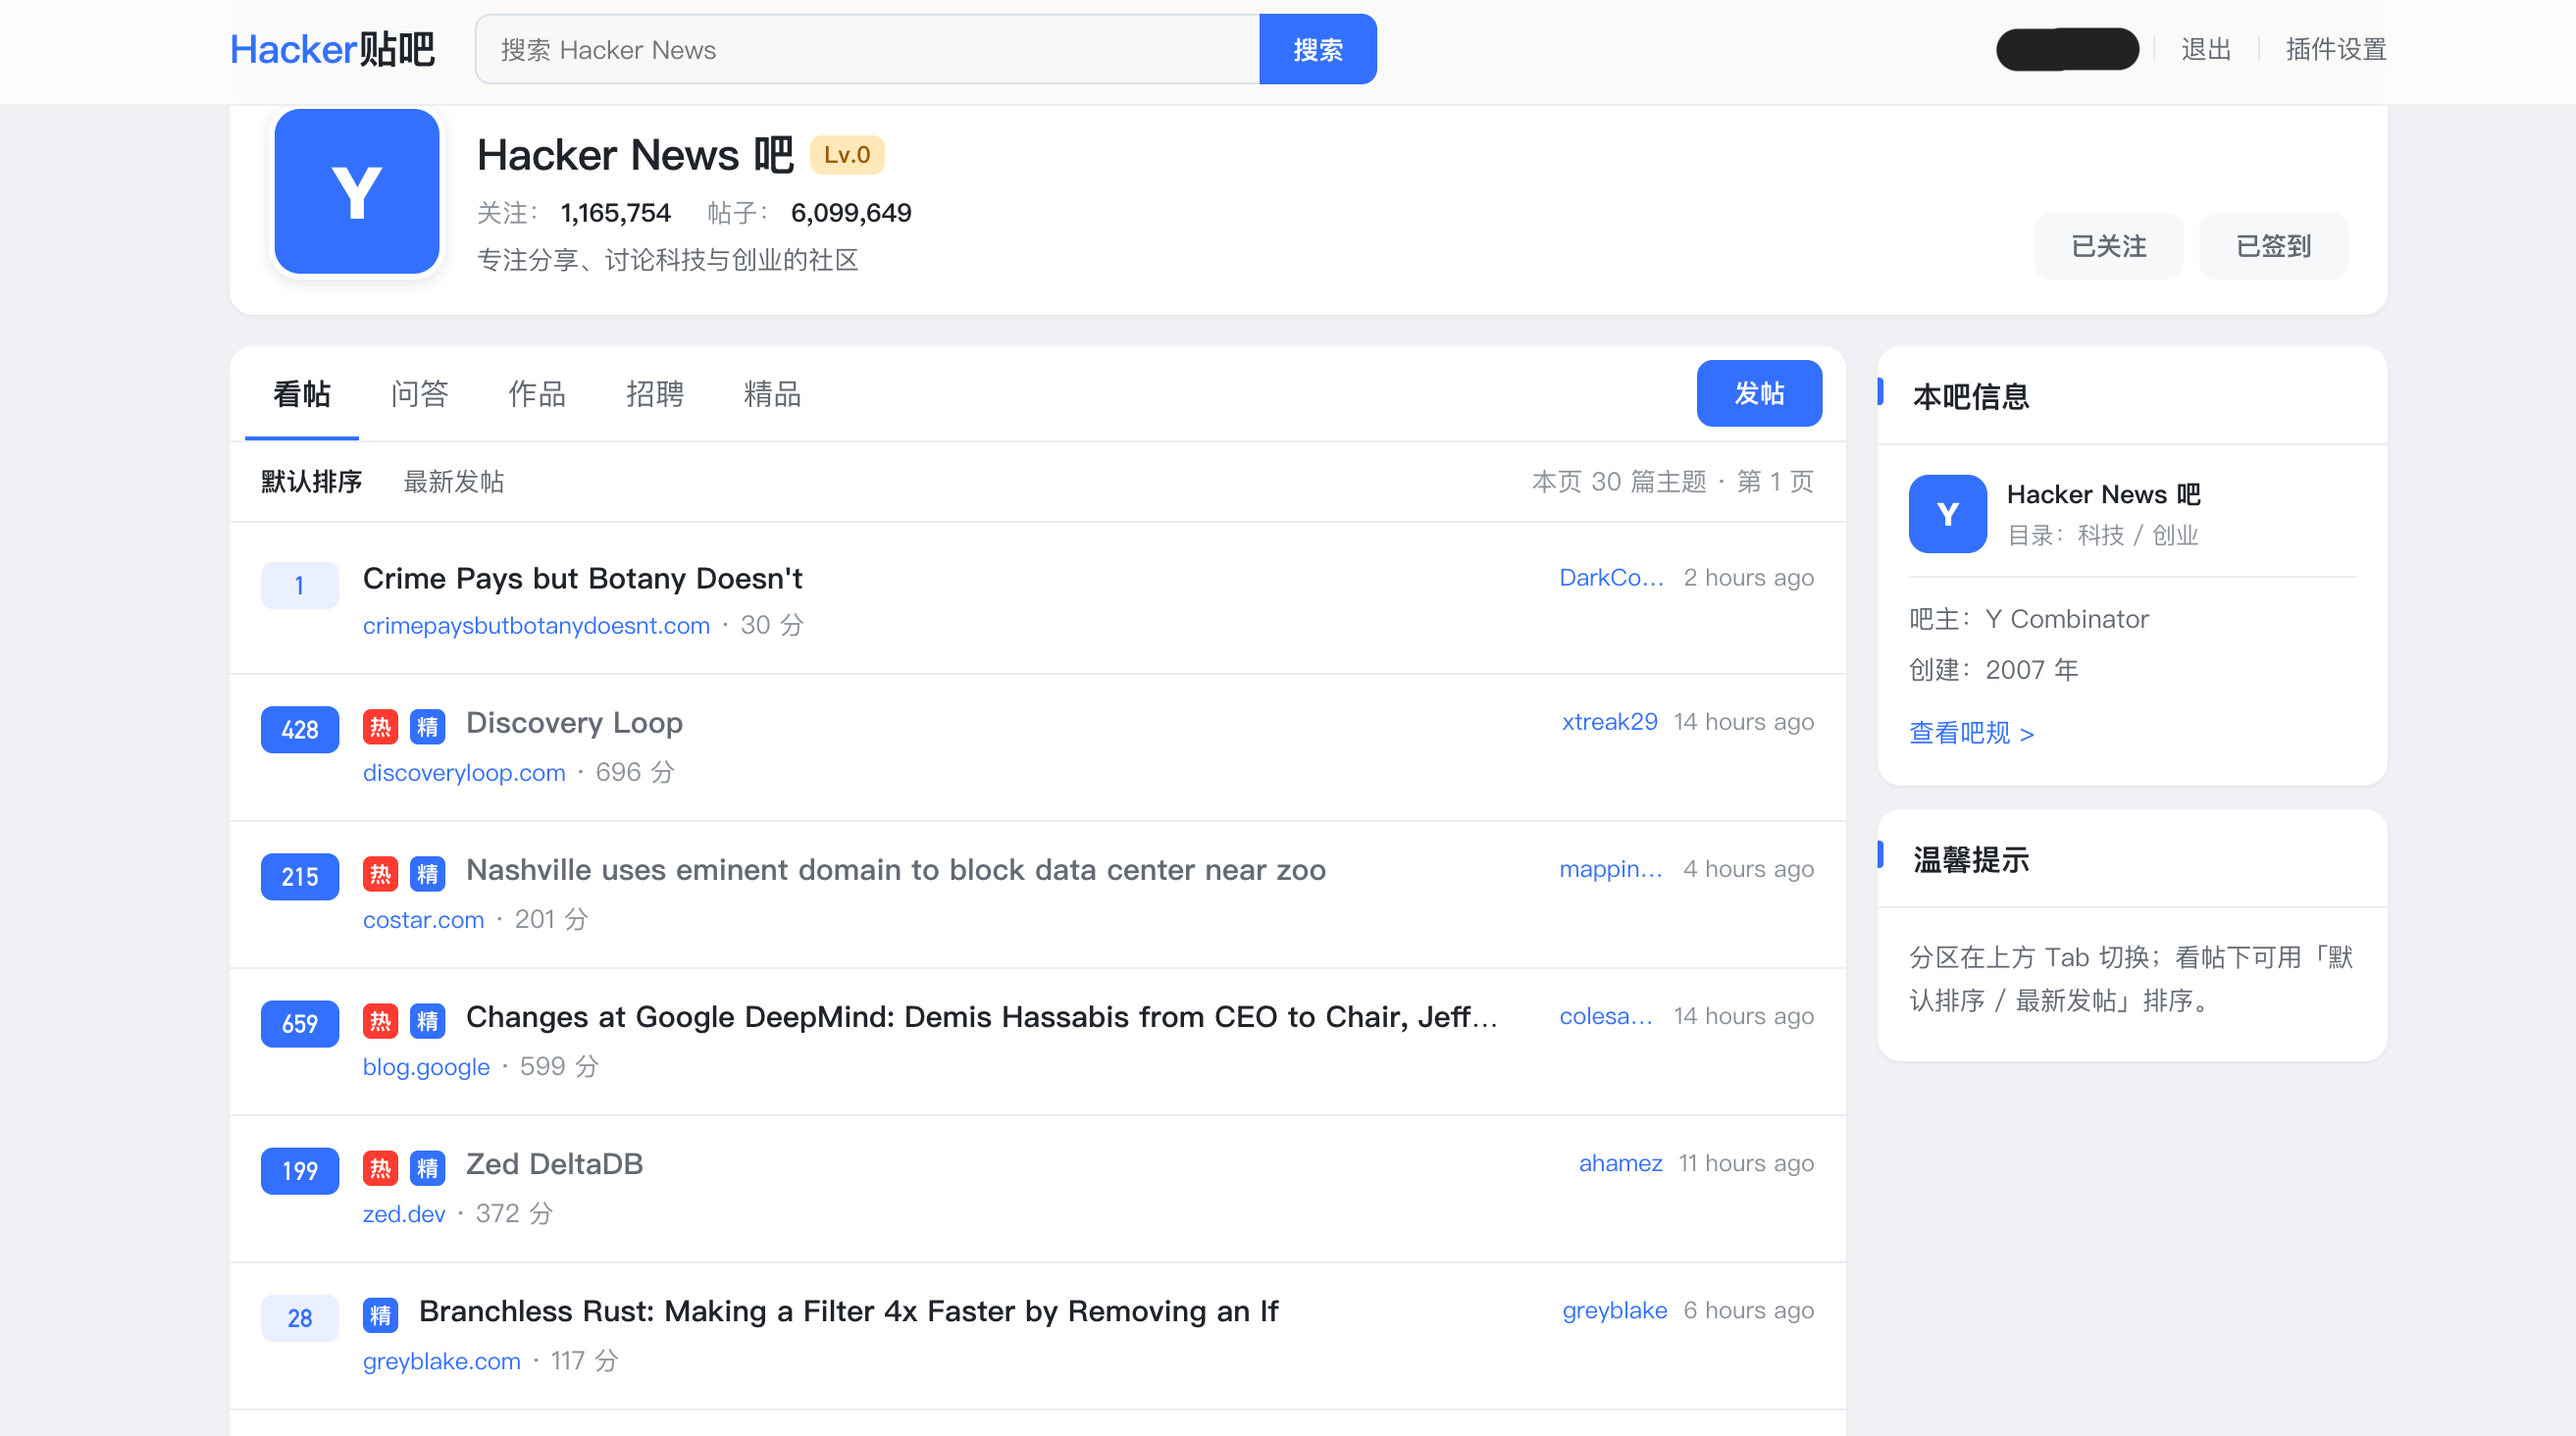
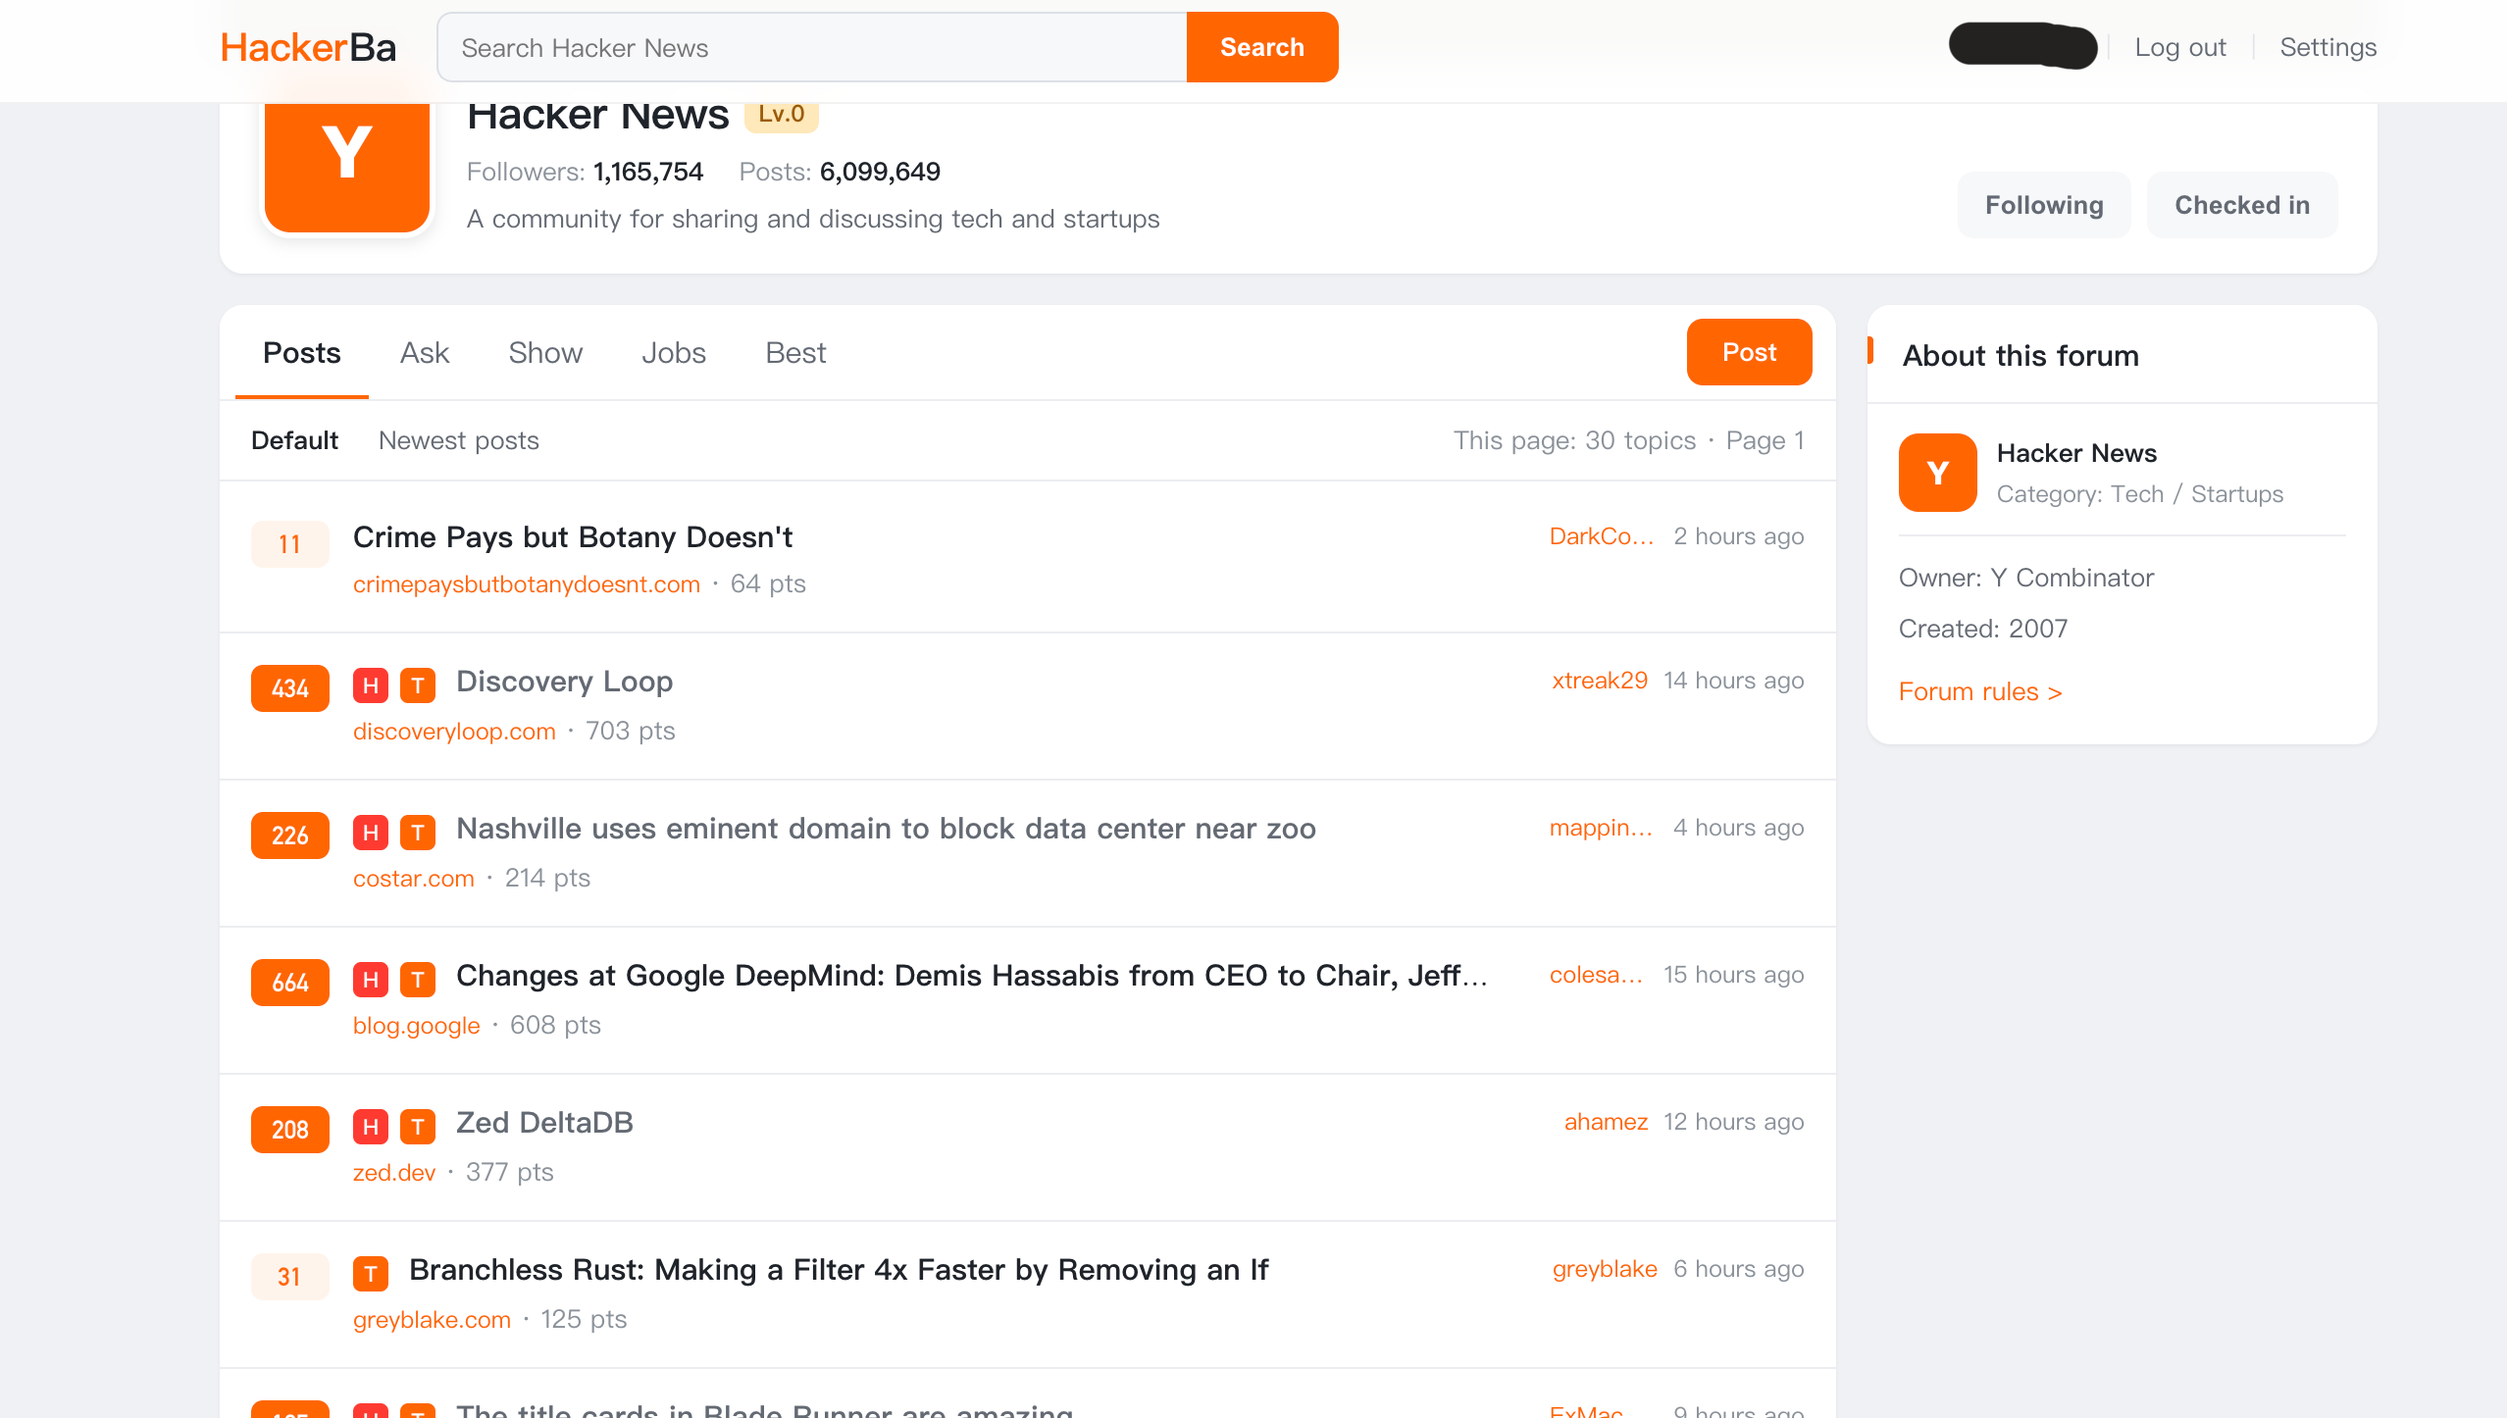
docs: add bilingual README with en/zh screenshots

diff --git a/README.md b/README.md
@@ -1,55 +1,59 @@
 # HackerBa
 
-Chrome 扩展：把 [Hacker News](https://news.ycombinator.com) 改造成贴吧式阅读界面。
+[English](README.md) | [中文](README.zh-CN.md)
 
-内容仍来自 Hacker News，布局与交互仿经典百度贴吧吧页 / 看帖页。支持中英双语、浅色 / 深色主题，无需改动 HN 账号体系。
+Chrome extension that restyles [Hacker News](https://news.ycombinator.com) as a Tieba-like forum.
 
-## 界面预览
+Content still comes from Hacker News; layout and interaction follow classic Baidu Tieba forum / thread pages. Supports English / Chinese, light / dark theme, and a blue or HN-orange accent color. No changes to the HN account system.
 
-### 列表页
+## Screenshots
 
-![HackerBa 列表页](docs/images/hackerba-list.png)
+Desktop UI in English:
 
-### 看帖页
+### List page
 
-![HackerBa 看帖页](docs/images/hackerba-thread.png)
+![HackerBa list page (English)](docs/images/hackerba-list-en.png)
 
-## 功能
+### Thread page
 
-- **列表页**：分数、热/精标签、标题与域名、作者与时间、贴吧式分页
-- **看帖页**：楼层卡片、楼主标识、楼中楼回复、用户等级（由 HN karma 推导）
-- **分区 Tab**：看帖 / 问答 / 作品 / 招聘 / 精品；列表可按默认或最新排序
-- **页内弹层**：用户资料、登录等次级页面以弹层打开，少打断阅读
-- **搜索**：页内搜索（Algolia HN API）
-- **选项页**：语言、主题、主题色、信息密度、标题点击行为、新标签打开讨论、吧头首图显隐
+![HackerBa thread page (English)](docs/images/hackerba-thread-en.png)
 
-## 安装
+## Features
 
-1. 打开 `chrome://extensions`
-2. 开启「开发者模式」
-3. 「加载已解压的扩展程序」
-4. 选择本仓库根目录（含 `manifest.json`）
+- **List page**: scores, hot/top badges, title and domain, author and time, Tieba-style pagination
+- **Thread page**: floor cards, OP / Me badges, nested replies, user levels derived from HN karma
+- **Section tabs**: Posts / Ask / Show / Jobs / Best; list sorting by default or newest
+- **In-page modals**: profile, login, compose (new post), guidelines, and settings open as overlays
+- **Search**: in-page search via the Algolia HN API
+- **Options**: language, theme, accent color, density, title-click behavior, open discussion in new tab, forum cover visibility
 
-加载后访问任意 `https://news.ycombinator.com/*` 页面即可。偏好设置可在页面顶栏「插件设置」，或扩展详情页的「扩展程序选项」中调整。
+## Install
 
-## 开发
+1. Open `chrome://extensions`
+2. Enable **Developer mode**
+3. Click **Load unpacked**
+4. Select this repository root (the folder that contains `manifest.json`)
+
+Then visit any `https://news.ycombinator.com/*` page. Preferences are available from the top-bar **Settings** link, or from the extension’s options page.
+
+## Development
 
 ```bash
 npm install
 npm test
 ```
 
-| 路径 | 说明 |
+| Path | Description |
 | --- | --- |
 | `manifest.json` | Manifest V3 |
-| `src/content-script.js` | 页面改造逻辑 |
-| `src/hackerba.css` | 贴吧样式 |
-| `src/i18n.js` | 中英文本 |
-| `src/options.html` / `src/options.js` | 选项页 |
-| `test/` | 单元测试 |
+| `src/content-script.js` | Page restyle logic |
+| `src/hackerba.css` | Tieba-style skin |
+| `src/i18n.js` | English / Chinese strings |
+| `src/options.html` / `src/options.js` | Options page |
+| `test/` | Unit tests |
 
-改代码后在 `chrome://extensions` 点「重新加载」，再刷新 HN 页面。
+After code changes, click **Reload** on `chrome://extensions`, then refresh the HN page.
 
-## 许可
+## License
 
 [MIT](LICENSE)

diff --git a/README.zh-CN.md b/README.zh-CN.md
@@ -1,0 +1,59 @@
+# HackerBa
+
+[English](README.md) | [中文](README.zh-CN.md)
+
+Chrome 扩展：把 [Hacker News](https://news.ycombinator.com) 改造成贴吧式阅读界面。
+
+内容仍来自 Hacker News，布局与交互仿经典百度贴吧吧页 / 看帖页。支持中英双语、浅色 / 深色主题，以及贴吧蓝 / HN 橙主题色。无需改动 HN 账号体系。
+
+## 界面预览
+
+桌面端中文界面：
+
+### 列表页
+
+![HackerBa 列表页（中文）](docs/images/hackerba-list-zh.png)
+
+### 看帖页
+
+![HackerBa 看帖页（中文）](docs/images/hackerba-thread-zh.png)
+
+## 功能
+
+- **列表页**：分数、热/精标签、标题与域名、作者与时间、贴吧式分页
+- **看帖页**：楼层卡片、楼主标识、楼中楼回复、用户等级（由 HN karma 推导）
+- **分区 Tab**：看帖 / 问答 / 作品 / 招聘 / 精品；列表可按默认或最新排序
+- **页内弹层**：用户资料、登录、发帖、吧规、设置等以弹层打开，少打断阅读
+- **搜索**：页内搜索（Algolia HN API）
+- **选项页**：语言、主题、主题色、信息密度、标题点击行为、新标签打开讨论、吧头首图显隐
+
+## 安装
+
+1. 打开 `chrome://extensions`
+2. 开启「开发者模式」
+3. 「加载已解压的扩展程序」
+4. 选择本仓库根目录（含 `manifest.json`）
+
+加载后访问任意 `https://news.ycombinator.com/*` 页面即可。偏好设置可在页面顶栏「插件设置」，或扩展详情页的「扩展程序选项」中调整。
+
+## 开发
+
+```bash
+npm install
+npm test
+```
+
+| 路径 | 说明 |
+| --- | --- |
+| `manifest.json` | Manifest V3 |
+| `src/content-script.js` | 页面改造逻辑 |
+| `src/hackerba.css` | 贴吧样式 |
+| `src/i18n.js` | 中英文本 |
+| `src/options.html` / `src/options.js` | 选项页 |
+| `test/` | 单元测试 |
+
+改代码后在 `chrome://extensions` 点「重新加载」，再刷新 HN 页面。
+
+## 许可
+
+[MIT](LICENSE)
